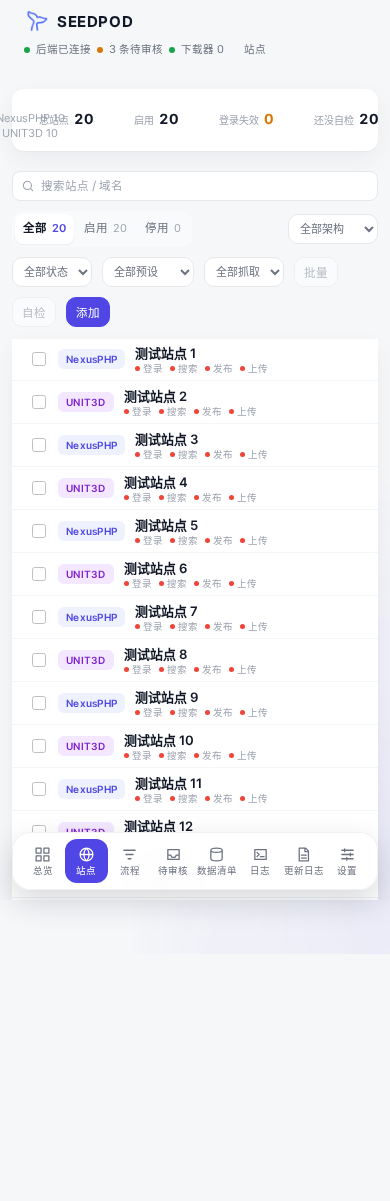
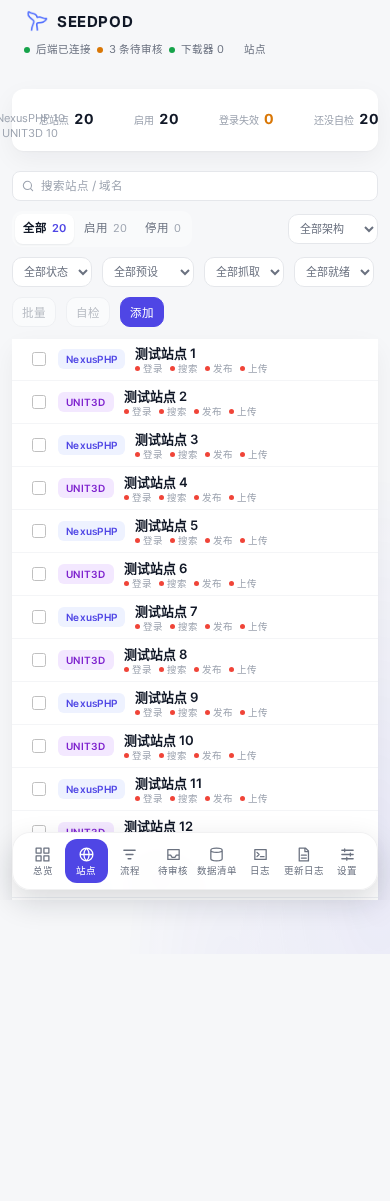
0.7.701 修复批量导入 cookie 脚本

diff --git a/pta/web/src/views/Sites.vue b/pta/web/src/views/Sites.vue
@@ -9,6 +9,7 @@
       :login-filter="loginFilter"
       :preset-filter="presetFilter"
       :crawl-filter="crawlFilter"
+      :ready-filter="readyFilter"
       :status-tabs="statusTabs"
       :picks-count="picks.length"
       :cookie-count="cookieCount"
@@ -20,6 +21,7 @@
       @update:login-filter="loginFilter = $event"
       @update:preset-filter="presetFilter = $event"
       @update:crawl-filter="crawlFilter = $event"
+      @update:ready-filter="readyFilter = $event"
       @bulk="openBulk"
       @selfcheck="selfcheckAll"
       @hidden="hiddenOpen = true"
@@ -107,6 +109,7 @@ const archFilter = ref('all')
 const loginFilter = ref('all')
 const presetFilter = ref('all')
 const crawlFilter = ref('all')
+const readyFilter = ref('all')
 const picks = ref([])
 const page = ref(1)
 const sel = ref(null)
@@ -182,6 +185,16 @@ const filtered = computed(() => sites.value.filter(s => {
     if (crawlFilter.value === 'never' && s.lastAt) return false
     if (crawlFilter.value === 'today' && !s.todayCount) return false
   }
+  if (readyFilter.value !== 'all') {
+    const r = s.ready
+    if (!r) return false
+    if (readyFilter.value === 'missing-cookie' && r.cookie.state !== 'missing' && r.cookie.state !== 'bad') return false
+    if (readyFilter.value === 'missing-search' && r.search.state !== 'missing') return false
+    if (readyFilter.value === 'missing-publish' && r.publish.state !== 'missing') return false
+    if (readyFilter.value === 'missing-upload' && r.upload.state !== 'missing') return false
+    if (readyFilter.value === 'crawl-ready' && !r.crawlReady) return false
+    if (readyFilter.value === 'publish-ready' && !r.publishReady) return false
+  }
   const needle = q.value.trim().toLowerCase()
   if (needle && (s.title + ' ' + s.name + ' ' + s.url).toLowerCase().includes(needle) === false) return false
   return true
@@ -219,7 +232,7 @@ const stats = computed(() => {
     segs, legend
   }
 })
-watch([q, statusFilter, archFilter, loginFilter, presetFilter, crawlFilter], () => { page.value = 1 })
+watch([q, statusFilter, archFilter, loginFilter, presetFilter, crawlFilter, readyFilter], () => { page.value = 1 })
 watch(pages, p => { if (page.value > p) page.value = p })
 watch(filtered, list => { if (sel.value && !list.some(s => s.name === sel.value)) sel.value = null })
 watch(q, () => {

diff --git a/pta/server/checks/cookie-file.js b/pta/server/checks/cookie-file.js
@@ -2,6 +2,7 @@
 const fs = require('fs');
 const os = require('os');
 const path = require('path');
+const { execFileSync } = require('child_process');
 const { openDB } = require('../src/infra/db');
 const secretbox = require('../src/infra/secretbox');
 const makeCookieStore = require('../src/features/sites/credentials');
@@ -55,6 +56,23 @@ function need(c, m) { if (!c) throw new Error(m); }
       need(a.ok === false && a.code === 'BAD_HOST', '非法 host 没拦住：' + JSON.stringify(a));
       const b = store.set('ok.example', 'x'.repeat(5000), db);
       need(b.ok === false && b.code === 'BAD_REQUEST', '超长 cookie 没拦住：' + JSON.stringify(b));
+    });
+
+    await check('命令行批量导入脚本写 cookies.json', async function () {
+      const D2 = fs.mkdtempSync(path.join(os.tmpdir(), 'pta-cookie-cli-'));
+      try {
+        const input = path.join(D2, 'in.json');
+        fs.writeFileSync(input, JSON.stringify({ 'cli-a.example': 'sid=cli-a', 'cli-b.example': 'sid=cli-b' }));
+        const out = execFileSync(process.execPath, [path.join(__dirname, '..', '..', '..', 'scripts', 'load-cookies.js'), input], {
+          env: Object.assign({}, process.env, { PTA_DATA: D2, PTA_SECRET: key.key.toString('hex') }),
+          encoding: 'utf8'
+        });
+        need(/imported 2 hosts/.test(out), '脚本输出不对：' + out);
+        const text = fs.readFileSync(path.join(D2, 'cookies.json'), 'utf8');
+        const doc = JSON.parse(text);
+        need(Object.keys(doc.cookies || {}).length === 2, '没写入 2 个 host：' + text.slice(0, 80));
+        need(text.indexOf('sid=cli-a') < 0, 'cookies.json 出现明文');
+      } finally { fs.rmSync(D2, { recursive: true, force: true }); }
     });
 
     await check('批量导入只保存合法项', async function () {

diff --git a/pta/web/src/components/SitesToolbar.vue b/pta/web/src/components/SitesToolbar.vue
@@ -36,6 +36,15 @@
       <option value="today">今日抓过</option>
       <option value="never">还没抓过</option>
     </select>
+    <select :value="readyFilter" class="select slim" id="site-ready" @change="emit('update:readyFilter', $event.target.value)">
+      <option value="all">全部就绪</option>
+      <option value="missing-cookie">缺登录</option>
+      <option value="missing-search">缺搜索</option>
+      <option value="missing-publish">缺发布</option>
+      <option value="missing-upload">缺上传</option>
+      <option value="crawl-ready">可抓取</option>
+      <option value="publish-ready">可发布</option>
+    </select>
     <button class="btn ghost slim" id="bulk-open" :disabled="!picksCount" title="批量设置选中的站点" @click="emit('bulk')">
       {{ picksCount ? '批量 ' + picksCount : '批量' }}
     </button>
@@ -55,13 +64,14 @@ defineProps({
   loginFilter: { type: String, default: 'all' },
   presetFilter: { type: String, default: 'all' },
   crawlFilter: { type: String, default: 'all' },
+  readyFilter: { type: String, default: 'all' },
   statusTabs: { type: Array, default: function () { return [] } },
   picksCount: { type: Number, default: 0 },
   cookieCount: { type: Number, default: 0 },
   busySelfcheck: Boolean,
   hiddenCount: { type: Number, default: 0 }
 })
-const emit = defineEmits(['update:q', 'update:statusFilter', 'update:archFilter', 'update:loginFilter', 'update:presetFilter', 'update:crawlFilter', 'bulk', 'selfcheck', 'add', 'hidden'])
+const emit = defineEmits(['update:q', 'update:statusFilter', 'update:archFilter', 'update:loginFilter', 'update:presetFilter', 'update:crawlFilter', 'update:readyFilter', 'bulk', 'selfcheck', 'add', 'hidden'])
 </script>
 
 <style scoped>

diff --git a/scripts/load-cookies.js b/scripts/load-cookies.js
@@ -1,11 +1,11 @@
-/* 把 cookies.tmp.json 里的 cookie 加密写进 v2 的 SQLite 凭据表。
+/* 把 cookies.tmp.json 里的 cookie 加密写进 v2 的 data/cookies.json。
    用法：PTA_DATA=<数据目录> PTA_SECRET_FILE=<密钥文件> node scripts/load-cookies.js <cookies.json>
    也支持 PTA_SECRET=<密钥>；没有显式密钥时只读数据目录 .secret，不自动新建。 */
 const fs = require('fs');
 const path = require('path');
 const ROOT = path.resolve(__dirname, '..');
-const makeCookieStore = require(path.join(ROOT, 'pta', 'server', 'cookie-store.js'));
-const { openDB } = require(path.join(ROOT, 'pta', 'server', 'db.js'));
+const makeCookieStore = require(path.join(ROOT, 'pta', 'server', 'src', 'features', 'sites', 'credentials'));
+const { openDB } = require(path.join(ROOT, 'pta', 'server', 'src', 'infra', 'db'));
 const DATA_DIR = path.resolve(process.env.PTA_DATA || path.join(ROOT, 'pta', 'data'));
 
 const src = process.argv[2];
@@ -17,7 +17,7 @@ if (!src || !fs.existsSync(src)) {
 const incoming = JSON.parse(fs.readFileSync(src, 'utf8'));
 const db = openDB(path.join(DATA_DIR, 'seedpod.db'));
 const store = makeCookieStore(DATA_DIR);
-const items = Object.keys(incoming).map(function (host) { return { host: host, cookie: incoming[host] }; });
+const items = Array.isArray(incoming) ? incoming : Object.keys(incoming).map(function (host) { return { host: host, cookie: incoming[host] }; });
 const r = store.importMany(items, db);
 db.close();
 console.log('imported ' + r.saved + ' hosts, skipped ' + r.skipped + ', total=' + store.list().length);

diff --git a/pta/web/checks/smoke-live.js b/pta/web/checks/smoke-live.js
@@ -179,6 +179,14 @@ async function main() {
     need(await items.count() === 1, '架构筛选不对：' + await items.count());
     await page.selectOption('#site-arch', 'all');
     await page.waitForTimeout(250);
+    await page.selectOption('#site-ready', 'publish-ready');
+    await page.waitForTimeout(250);
+    need(await items.count() === 0, '可发布筛选不该有站：' + await items.count());
+    await page.selectOption('#site-ready', 'missing-cookie');
+    await page.waitForTimeout(250);
+    need(await items.count() === 4, '缺登录筛选数量不对：' + await items.count());
+    await page.selectOption('#site-ready', 'all');
+    await page.waitForTimeout(250);
     await items.first().click();
     await page.waitForTimeout(500);
     need(await page.locator('#site-detail').count() === 1, '详情 id 重复或缺失');

diff --git a/HANDOFF.md b/HANDOFF.md
@@ -1,6 +1,18 @@
 # HANDOFF · SEEDPOD 面板
 
-最后更新：2026-11-26 02:45（当前 v0.7.699 / 就绪度刷新降频；开发清单见 `pta/docs/ROADMAP.md` 顶部）
+最后更新：2026-11-26 12:20（当前 v0.7.701 / 批量导入 cookie 脚本；开发清单见 `pta/docs/ROADMAP.md` 顶部）
+
+## 2026-11-26 批量导入 cookie 脚本（v0.7.701）
+
+- `scripts/load-cookies.js` 原本还引用已删除的 v1 模块；改用 v2 `credentials` + `openDB`，写 `data/cookies.json`。
+- 支持 `{host: cookie}` 和 `[{host, cookie}]`，最多 200 条；不打印 cookie。
+- 检查补真实子进程导入；全量 `run.sh` 通过。
+
+## 2026-11-26 就绪度筛选（v0.7.700）
+
+- 站点页加“全部就绪”筛选：缺登录/搜索/发布/上传、可抓取、可发布。
+- 纯本地数据，不发请求；和现有筛选叠加。
+- 全量 `run.sh` 通过；已部署，GitHub 同步。
 
 ## 2026-11-26 就绪度刷新降频（v0.7.699）
 

diff --git a/pta/docs/DECISIONS.md b/pta/docs/DECISIONS.md
@@ -8,7 +8,7 @@
 
 定了：站点列表每行显示“登 / 搜 / 发 / 传”四个小标，状态分绿=就绪、黄=待验证、红=缺项；登录有 cookie 但没最近自检算待验证，上传有引擎默认字段也算待验证。数据由 `/api/site-defs` 本地计算，第一版只读，不做批量动作。
 为什么：306 个站的状态分散，用户需要在一行内看出缺什么；三态能区分“没有”和“有配置但没验证”，避免把未验证当成已就绪。
-代价：列表行更密，手机上四个小标只能靠颜色和缩写；真正的“可发布”仍要等上传权限和预检。
+代价：列表行更密，手机上四个小标只能靠颜色和缩写；真正的“可发布”仍要等上传权限和预检。筛选在 0.7.700 补成工具栏下拉，和现有筛选叠加。
 
 # 决策记录
 

diff --git a/CHANGELOG.md b/CHANGELOG.md
@@ -1,5 +1,19 @@
 # 更新日志
 
+## v0.7.701 · 2026-11-26
+
+### 批量导入 cookie 脚本修复
+- `scripts/load-cookies.js` 改用 v2 模块，一次把多个 host 写进 `data/cookies.json`。
+- 支持 `{host: cookie}` 和 `[{host, cookie}]` 两种输入，最多 200 条。
+- 补命令行导入检查；全量 `run.sh` 通过。
+
+## v0.7.700 · 2026-11-26
+
+### 就绪度筛选
+- 站点页新增“全部就绪”筛选：缺登录、缺搜索、缺发布、缺上传、可抓取、可发布。
+- 纯本地数据，不发请求；和现有搜索、架构、状态、预设、抓取筛选叠加。
+- 全量 `run.sh` 通过。
+
 ## v0.7.699 · 2026-11-26
 
 ### 就绪度刷新降频
